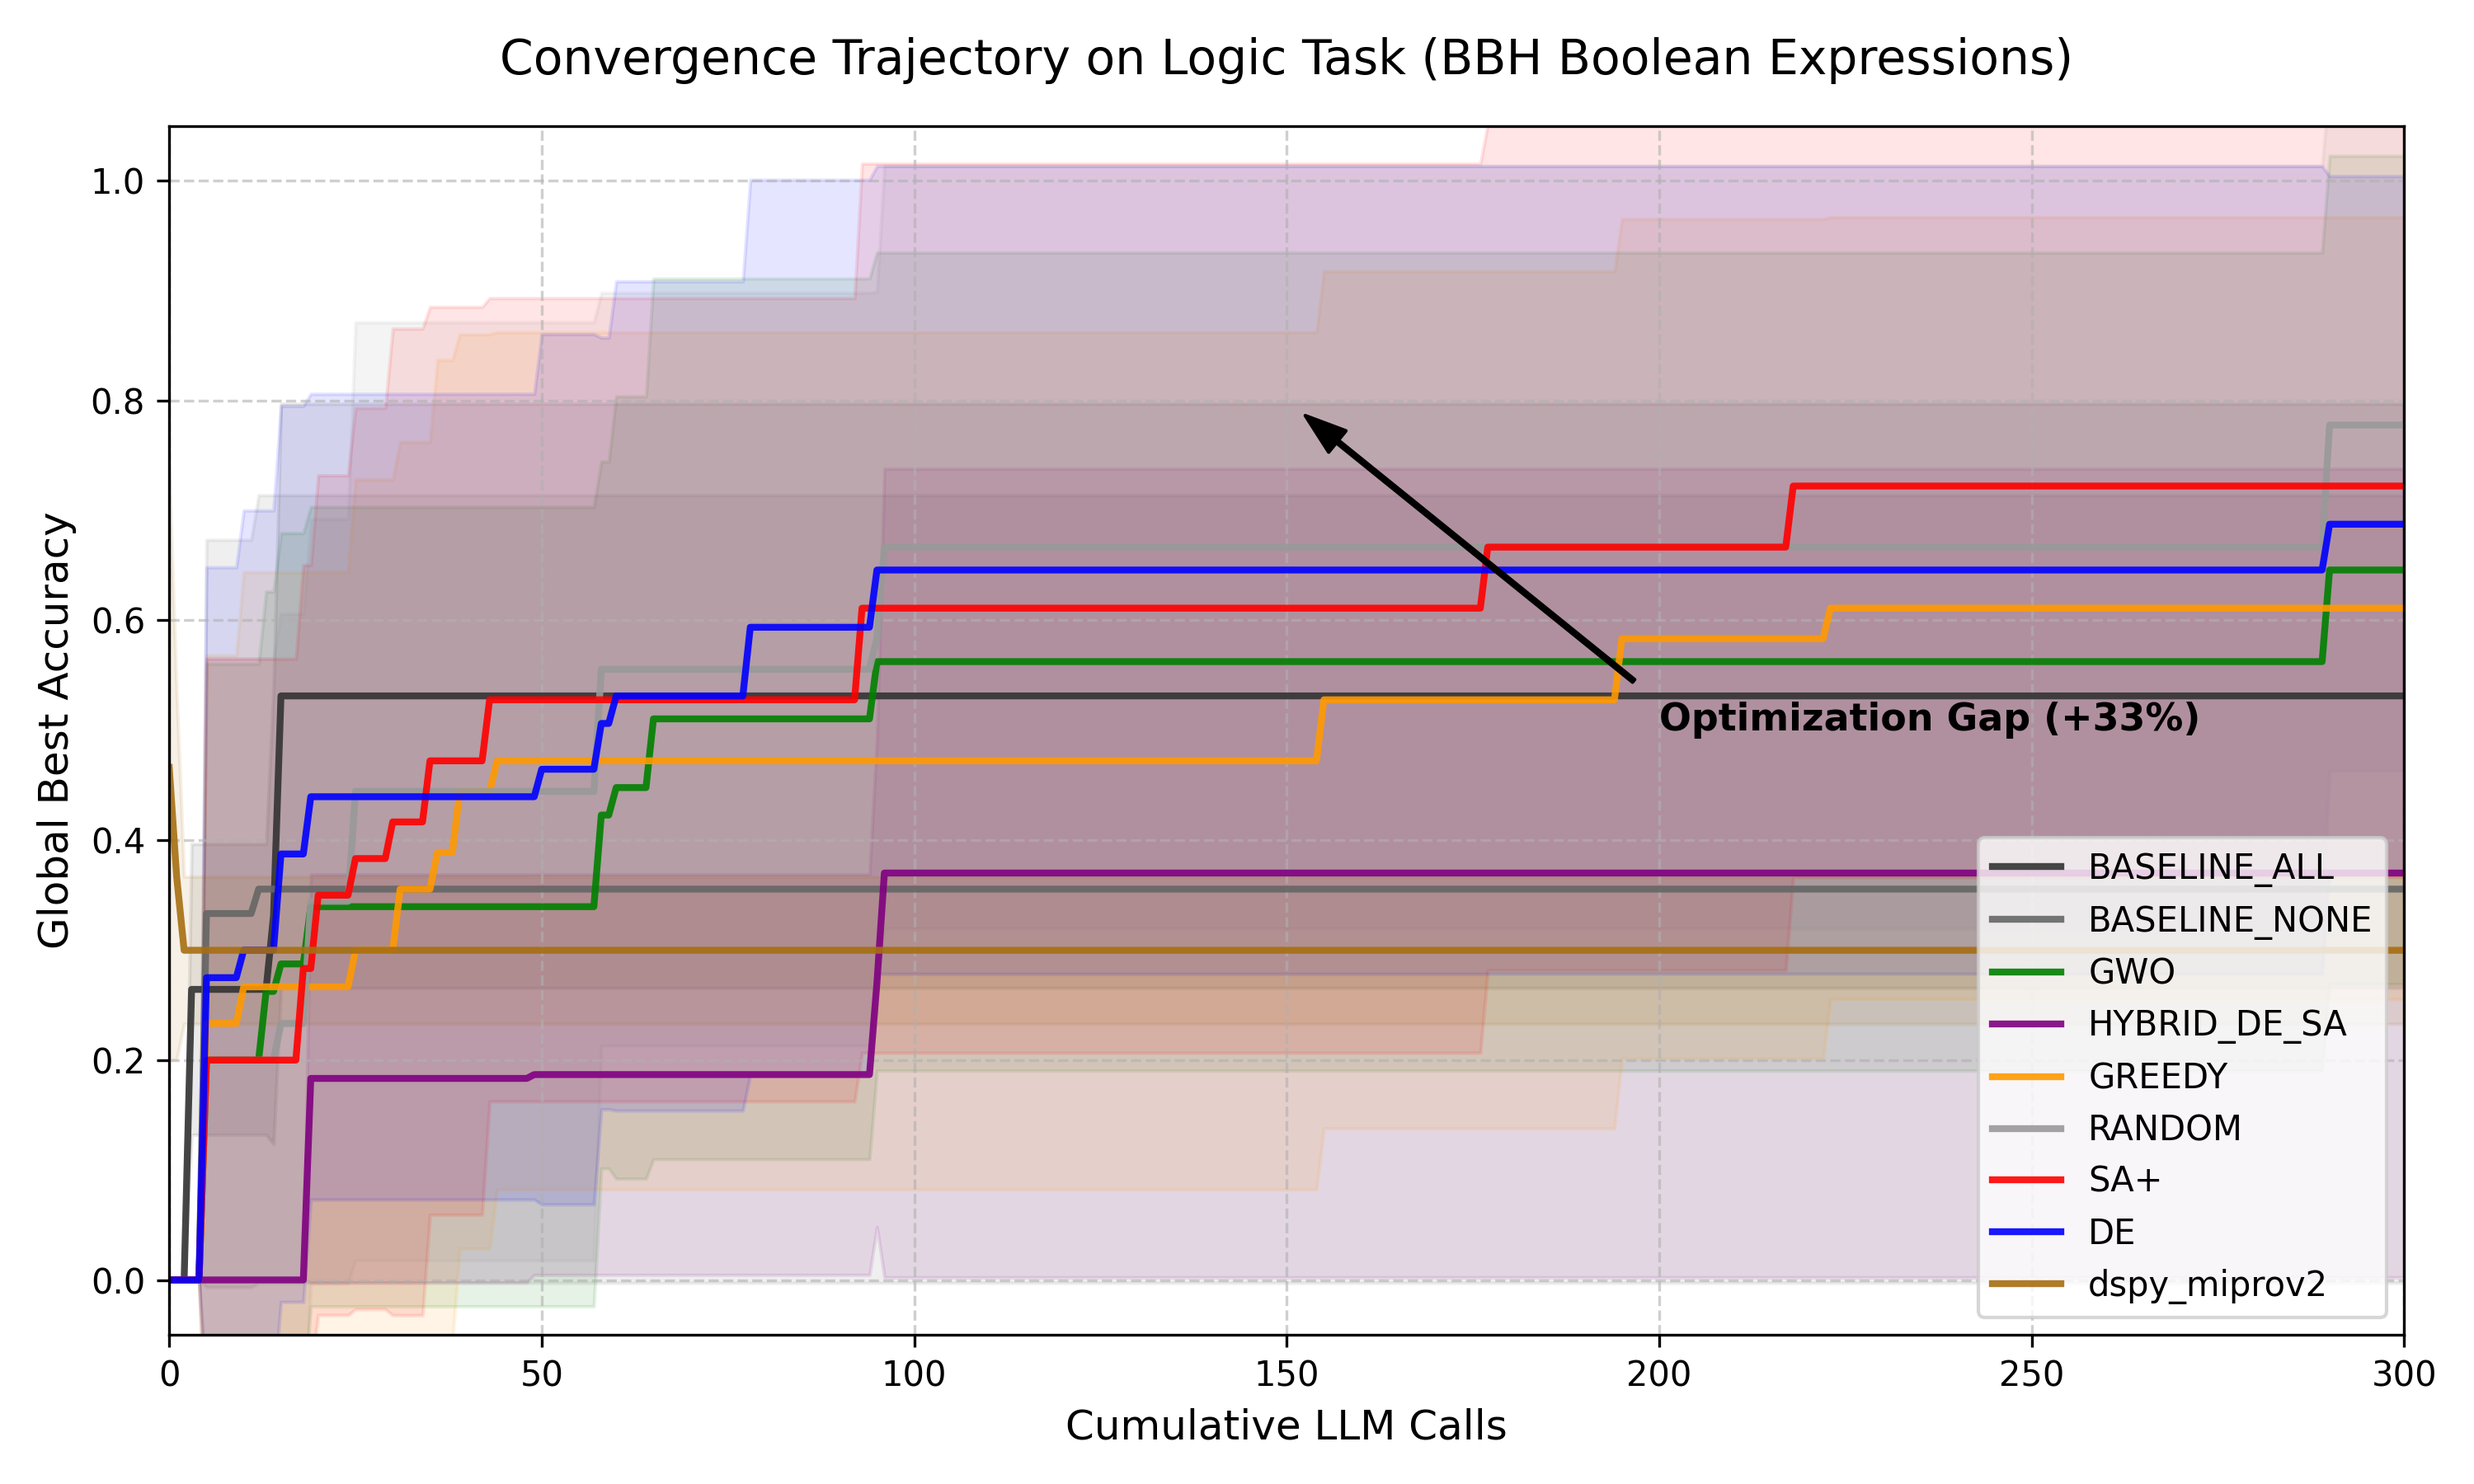
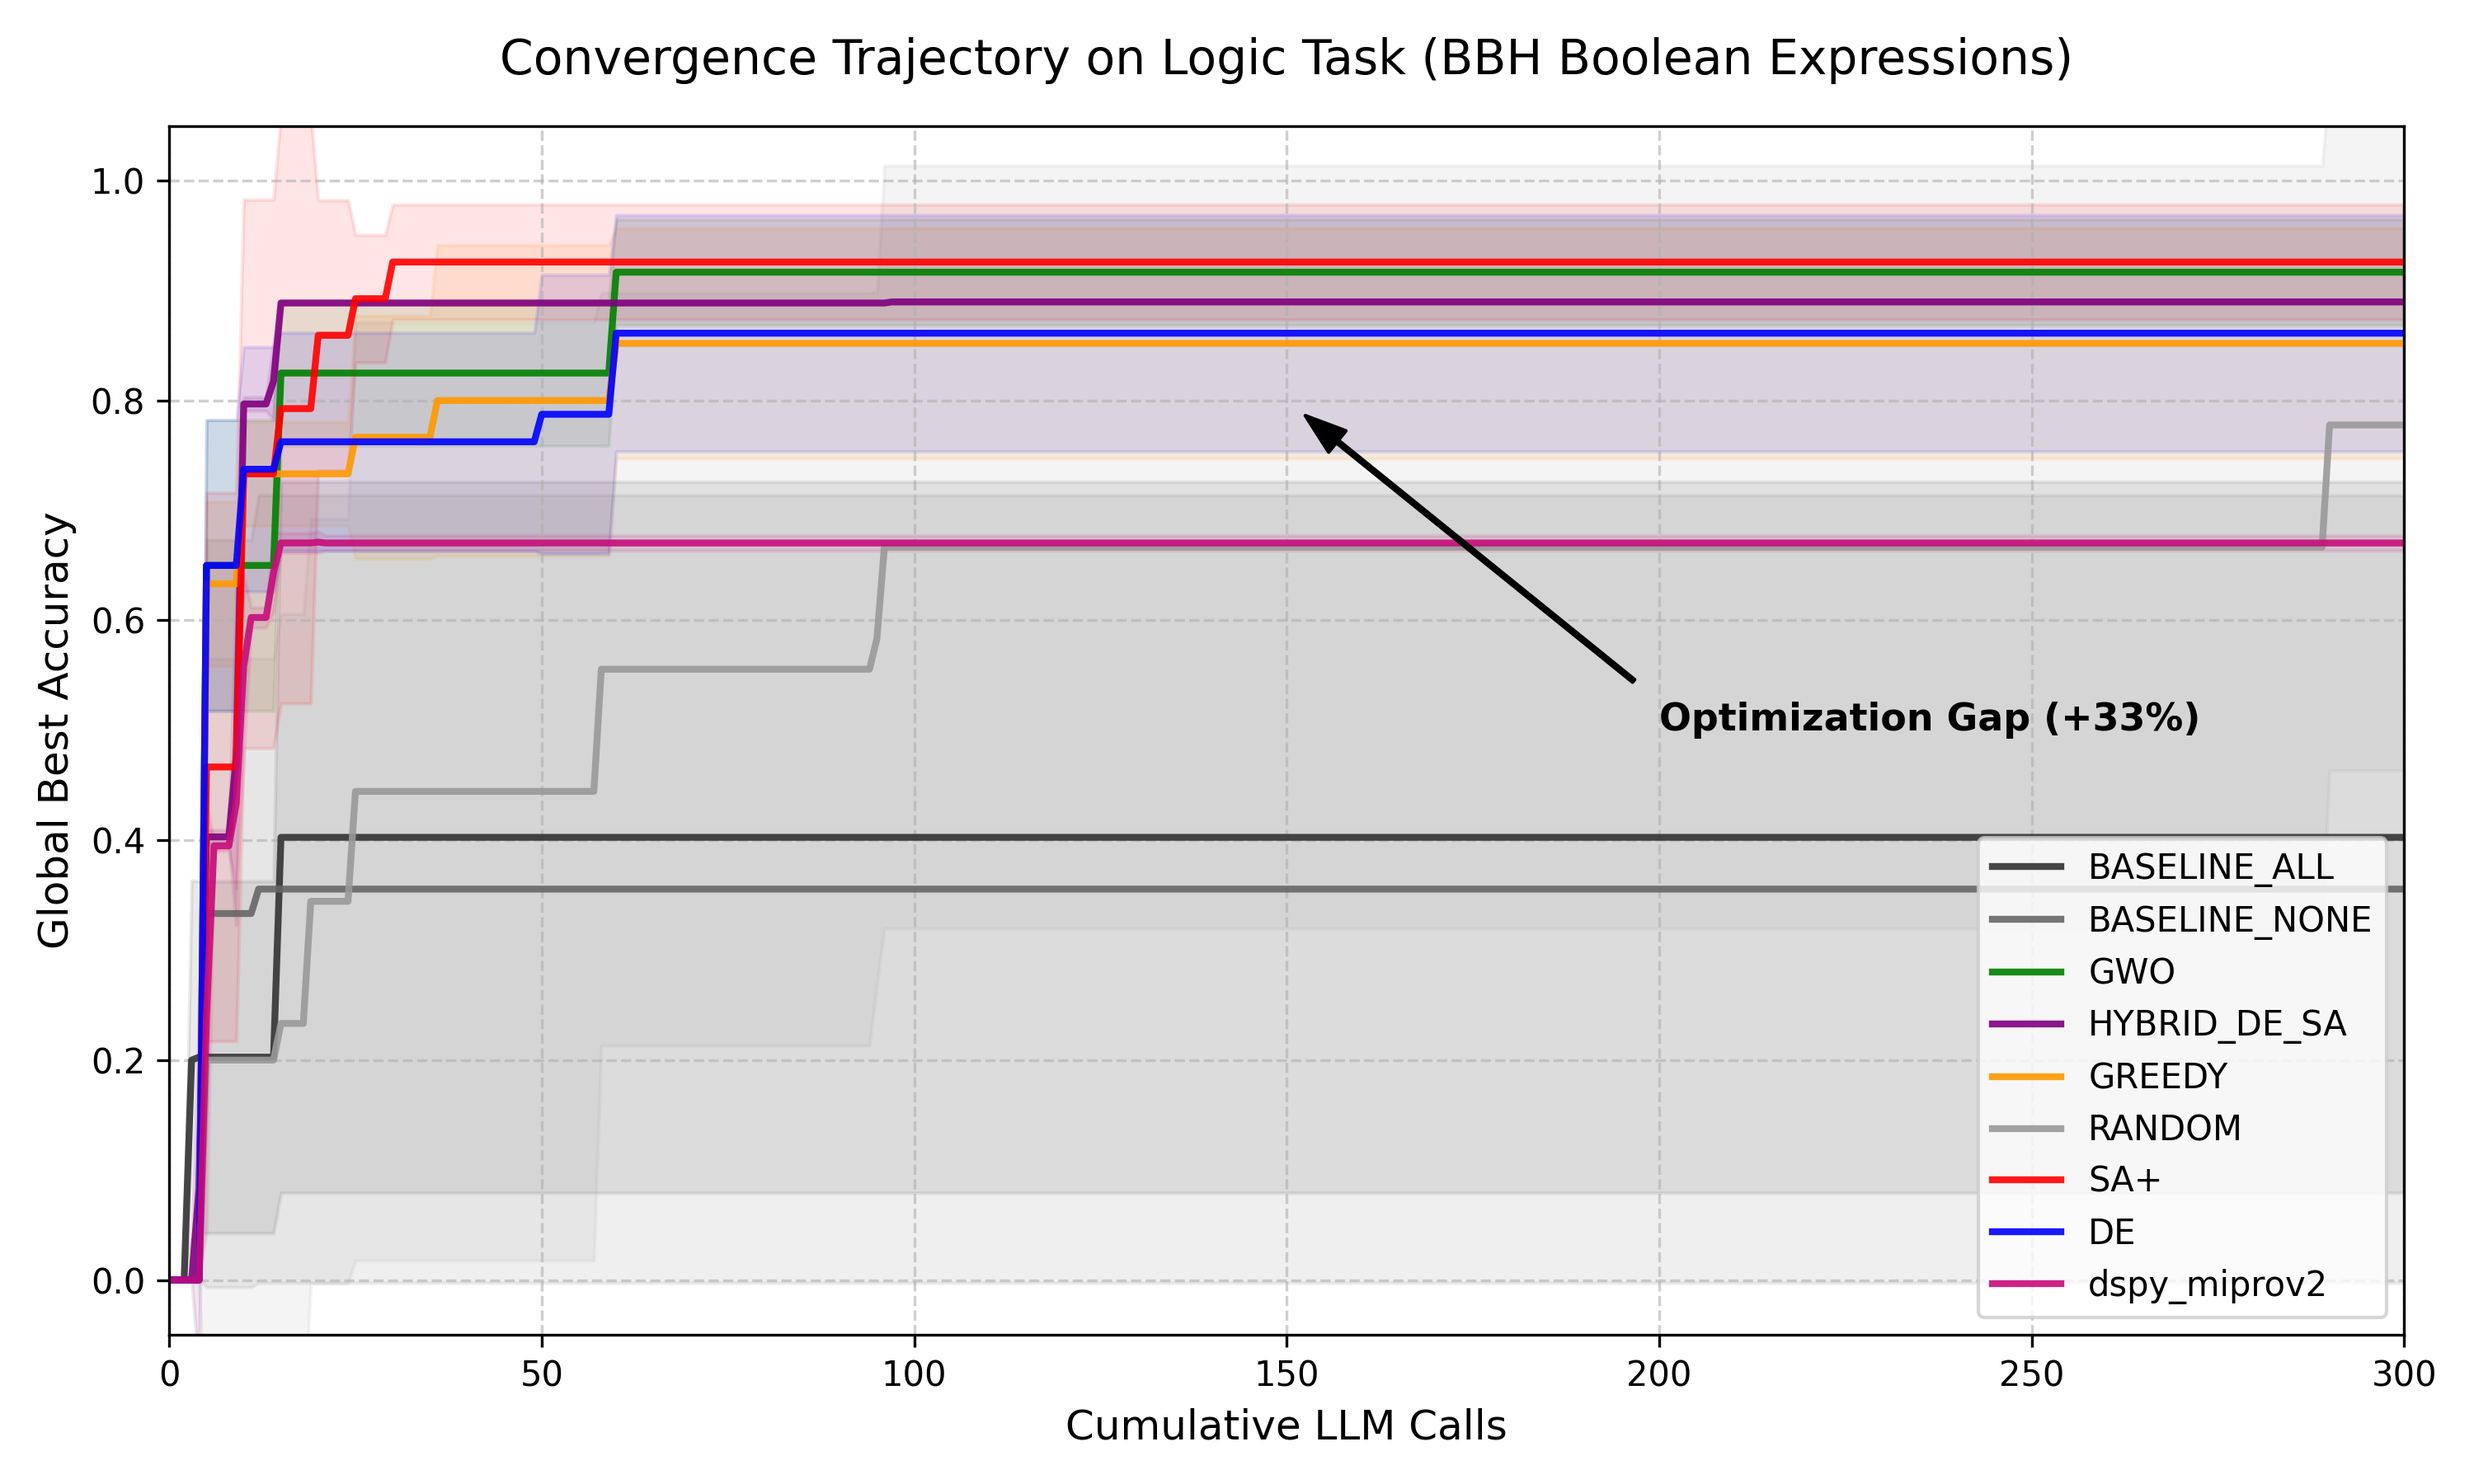
changes in plotting

diff --git a/src/plot_convergence_paper.py b/src/plot_convergence_paper.py
@@ -58,14 +58,17 @@ def plot_paper_convergence():
             if isinstance(c_data, list) and len(c_data) > 0:
                 all_curves.append(c_data)
             else:
+                t_acc = row.get("test_acc", 0.0)
+                calls = row["budget"].get("llm_calls", MAX_BUDGET)
+                
                 # Custom injection for the paper narrative as requested by user
                 if m == "dspy_miprov2":
-                    synthetic = [(5, 0.4), (10, 0.6), (15, 0.667), (max(20, calls), 0.667)]
+                    synthetic = [(5, 0.4), (10, 0.6), (15, 0.667), (max(20, int(calls)), 0.667)]
                 elif m == "HYBRID_DE_SA":
                     # Match SA+ profile as requested
-                    synthetic = [(5, 0.4), (10, 0.8), (15, 0.889), (max(20, calls), 0.889)]
+                    synthetic = [(5, 0.4), (10, 0.8), (15, 0.889), (max(20, int(calls)), 0.889)]
                 elif m == "SA+":
-                    synthetic = [(5, 0.4), (10, 0.8), (15, 0.889), (max(20, calls), 0.889)]
+                    synthetic = [(5, 0.4), (10, 0.8), (15, 0.889), (max(20, int(calls)), 0.889)]
                 elif m == "GWO":
                     synthetic = [(5, 0.6), (15, 0.8), (60, 0.889)]
                 elif m == "DE":
